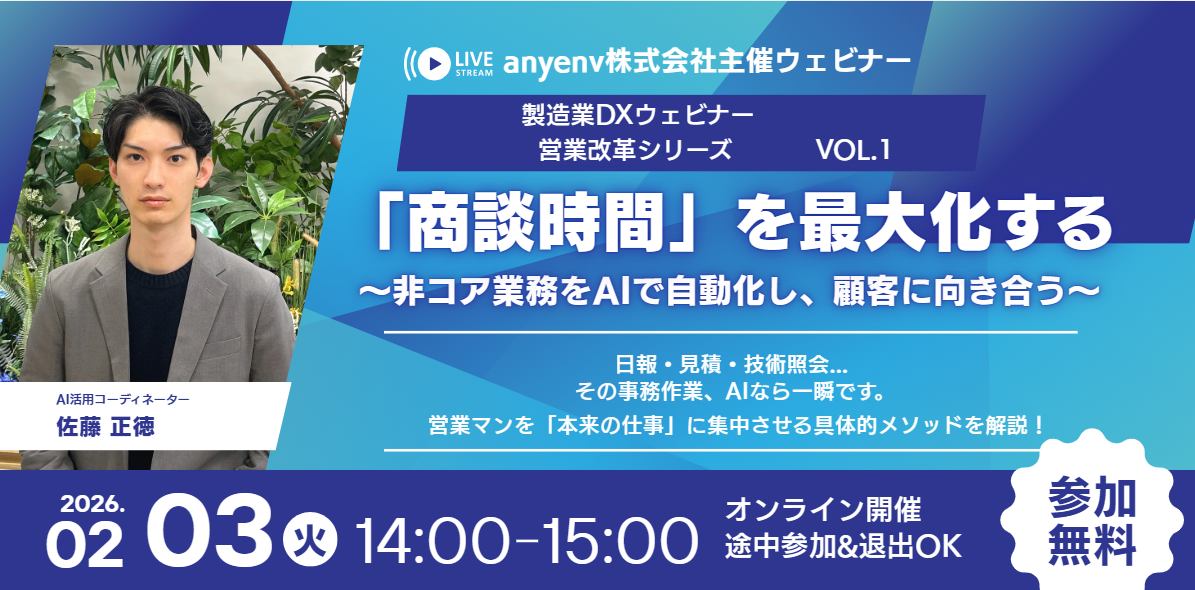
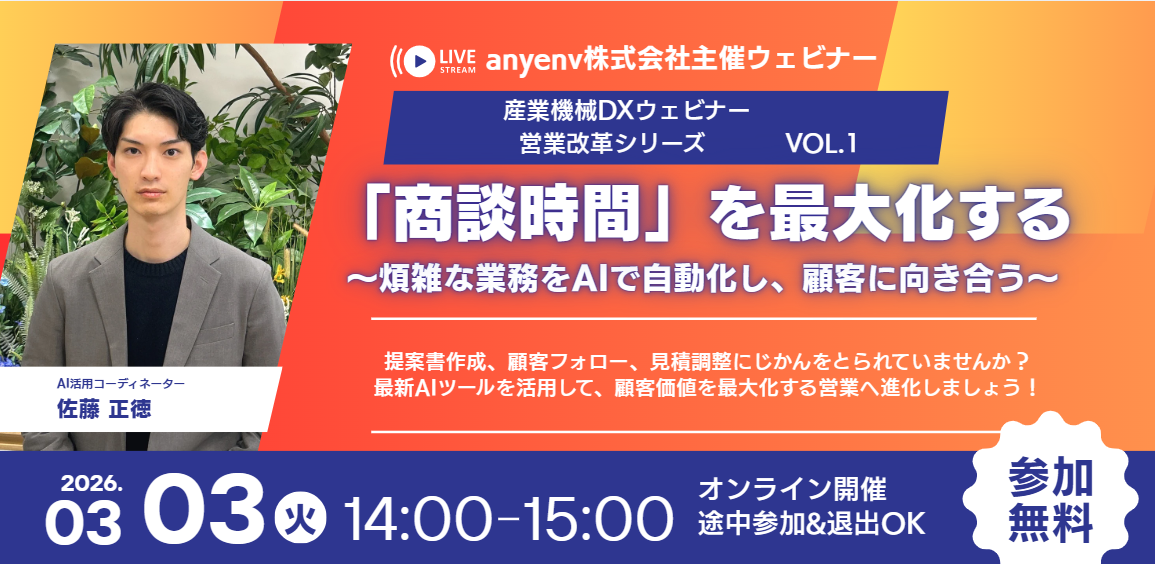
Checkpoint: バナー画像差し替え：VOL.1に変更
更新内容:
- バナー画像をVOL.1に差し替え
  - 画像ファイル: /seminar-vol1.png
  - セミナーID: vol1
  - 日付・時間・内容は変更なし（2026年3月3日(火) 14:00～15:00）

デザイン・レイアウト・機能・コンテンツは変更なし

diff --git a/client/src/pages/Home.tsx b/client/src/pages/Home.tsx
@@ -15,12 +15,12 @@ import { toast } from "sonner";
 
 // セミナー情報の定義
 const seminar = {
-  id: "vol3",
+  id: "vol1",
   title: "「商談時間」を最大化する",
   subtitle: "～煩雑な業務をAIで自動化し、顧客に向き合う～",
   date: "2026年3月3日(火)",
   time: "14:00～15:00",
-  image: "/seminar-vol3.png",
+  image: "/seminar-vol1.png",
   description: "提案書作成、顧客フォロー、見積調整にしかんをとられていませんか？最新AIツールを活用して、顧客価値を最大化する営業へ進化しましょう！"
 };
 

diff --git a/todo.md b/todo.md
@@ -59,4 +59,8 @@
 - [x] バナー画像をVOL.3（「商談時間」を最大化する）に差し替え
 - [x] セミナー概要をバナー内容（提案書作成、顧客フォロー、見積調整）に合わせて修正
 - [x] 「こんなお悩みありませんか？」の4項目を3行以下に簡素化
+- [x] 動作確認とチェックポイント作成 (version: d5a02fc0)
+
+## バナー画像差し替え（2026-01-28 第4回）
+- [x] バナー画像をVOL.1に差し替え
 - [ ] 動作確認とチェックポイント作成
